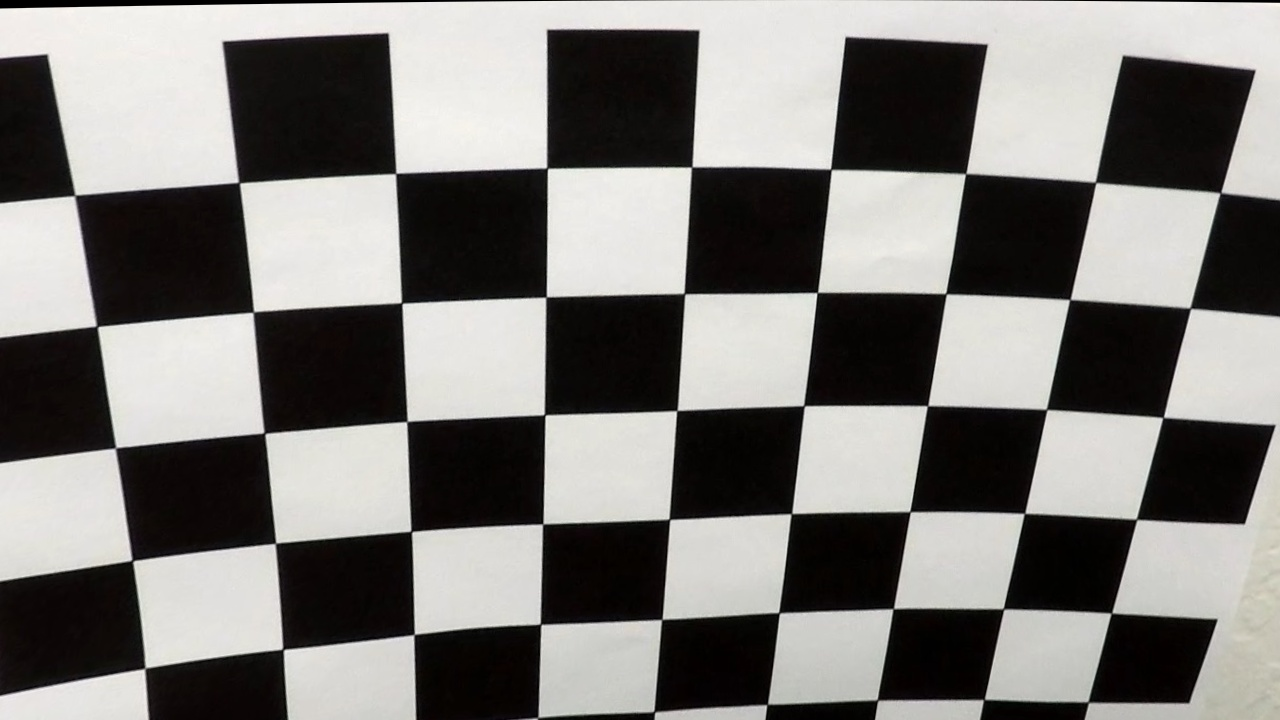
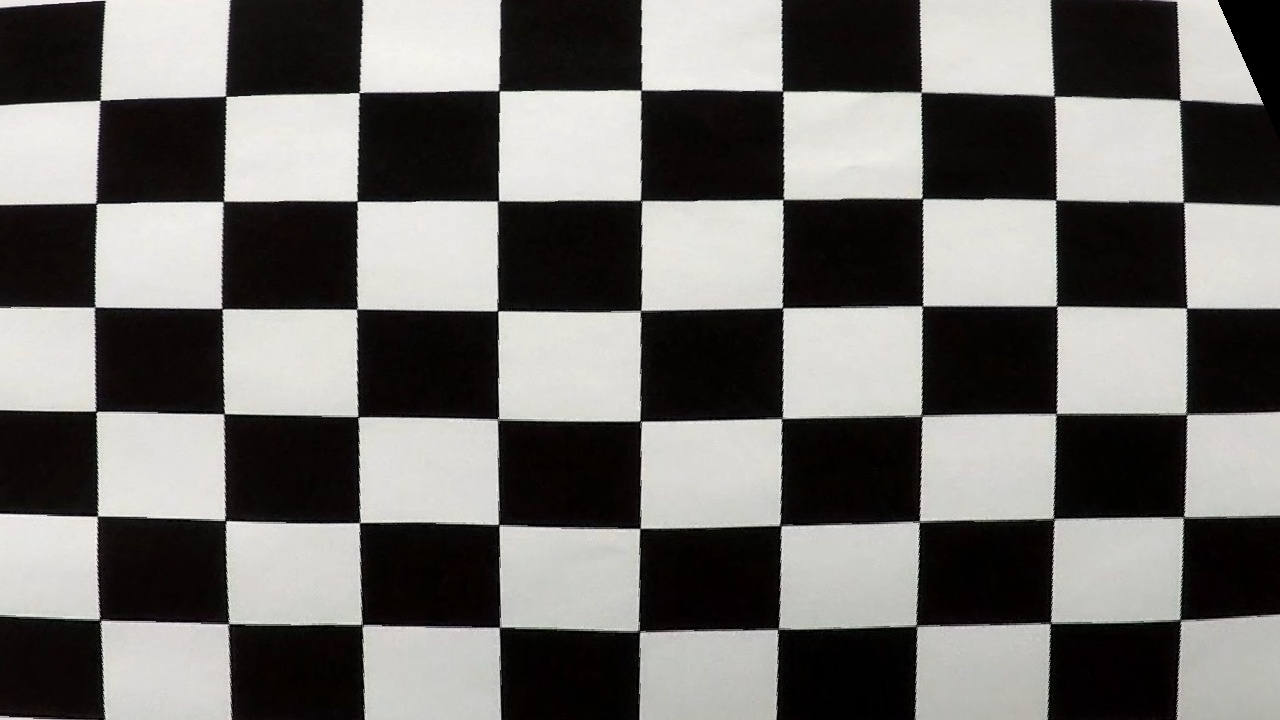
Edit source code and output file for performance

diff --git a/P2_AdvancedLaneFinding/examples/undistort.py b/P2_AdvancedLaneFinding/examples/undistort.py
@@ -44,7 +44,7 @@ for fname in files:
         nx=9
 
         ret, mtx, dist, rvecs, tvecs = cv2.calibrateCamera(objpoints, imgpoints, img.shape[1:], None, None)
-        undist = cv2.undistort(img, mtx, dist, None, mtx)
+#        undist = cv2.undistort(img, mtx, dist, None, mtx)
 
         src = np.float32([corners[0], corners[nx-1], corners[-1], corners[-nx]])
         dst = np.float32([[offset_x, offset_y], [img.shape[1]-offset_x, offset_y],
@@ -52,7 +52,7 @@ for fname in files:
                                      [offset_x, img.shape[0]-offset_y]])
         img=warper(img,src,dst)
         print(fname)
-        cv2.imwrite('../camera_cal_output/'+fname,undist)
+        cv2.imwrite('../camera_cal_output/'+fname,img)
         cv2.imshow('img',img)
         cv2.waitKey(500)
 
